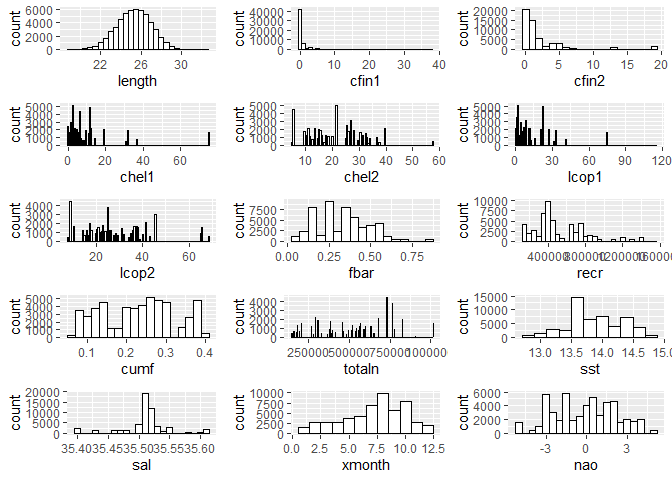
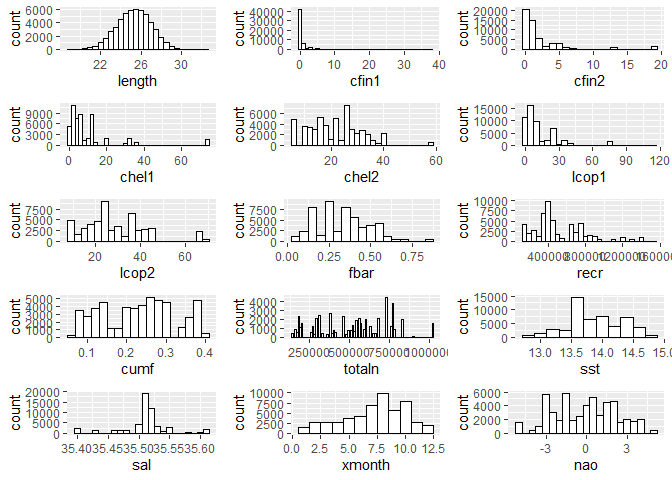
almost final

diff --git a/README.md b/README.md
@@ -32,7 +32,8 @@ Wykorzystane biblioteki
 =======================
 
 Do analizy danych i stworzenia raportu z tej analizy zostały
-wykorzystane następujące biblioteki: - datasets  
+wykorzystane następujące biblioteki:  
+- datasets  
 - corrplot  
 - ggplot2  
 - gganimate  
@@ -45,7 +46,7 @@ wykorzystane następujące biblioteki: - datasets
 Zapewnienie powtarzalności wyników przy każdym uruchomieniu raportu na tych samych danych
 =========================================================================================
 
-Aby zapewnić powtarzalność próbkowań i losowań liczb (m. inn. przy
+Aby zapewnić powtarzalność próbkowań i losowań liczb (m. in. przy
 próbkowaniu zbioru) przy każdym odpaleniu programu ustawiono stałe
 ziarno.
 
@@ -124,7 +125,7 @@ Z uwagi na występowanie brakujących danych konieczna była zmiana “?” na
 
     data[data=="?"] <- NA
 
-Po zmianie znaku “?” na wartość NA zmianiono typ danych kolumn z
+Po zmianie znaku “?” na wartość NA zmieniono typ danych kolumn z
 nieznanymi wartościami na wartości numeryczne.
 
     data$cfin1 <- as.numeric(data$cfin1)
@@ -164,9 +165,9 @@ nieznanymi wartościami na wartości numeryczne.
 Rozmiar zbioru danych i podstawowe statystyki
 =============================================
 
-    paste("Wczytane dane zawierają ", nrow(data), " rekordów oraz ", ncol(data), " kolumn.", sep=" ")
+    paste("Wczytane dane zawierają", nrow(data), "rekordów oraz", ncol(data), "kolumn.", sep=" ")
 
-    ## [1] "Wczytane dane zawierają  52582  rekordów oraz  16  kolumn."
+    ## [1] "Wczytane dane zawierają 52582 rekordów oraz 16 kolumn."
 
 Podsumowanie wartości danych:
 
@@ -253,7 +254,7 @@ wszystkimi brakującymi danymi.
 Szczegółowa analiza zbiorów wartości
 ====================================
 
-Poniżej przedstawiono rozkłady wszystkich wartośi w zbiorze danych
+Poniżej przedstawiono rozkłady wszystkich wartości w zbiorze danych
 
     library(ggplot2)
     library(ggExtra)
@@ -261,14 +262,14 @@ Poniżej przedstawiono rozkłady wszystkich wartośi w zbiorze danych
     lengthDissPlot <- ggplot(data, aes(x=length)) + geom_histogram(binwidth=.5, colour="black", fill="white")
     cfin1DissPlot <- ggplot(data, aes(x=cfin1)) + geom_histogram(binwidth=1, colour="black", fill="white")
     cfin2DissPlot <- ggplot(data, aes(x=cfin2)) + geom_histogram(binwidth=1, colour="black", fill="white")
-    chel1DissPlot <- ggplot(data, aes(x=chel1)) + geom_histogram(binwidth=.5, colour="black", fill="white")
-    chel2DissPlot <- ggplot(data, aes(x=chel2)) + geom_histogram(binwidth=.5, colour="black", fill="white")
-    lcop1DissPlot <- ggplot(data, aes(x=lcop1)) + geom_histogram(binwidth=.5, colour="black", fill="white")
-    lcop2DissPlot <- ggplot(data, aes(x=lcop2)) + geom_histogram(binwidth=.5, colour="black", fill="white")
+    chel1DissPlot <- ggplot(data, aes(x=chel1)) + geom_histogram(binwidth=2, colour="black", fill="white")
+    chel2DissPlot <- ggplot(data, aes(x=chel2)) + geom_histogram(binwidth=2, colour="black", fill="white")
+    lcop1DissPlot <- ggplot(data, aes(x=lcop1)) + geom_histogram(binwidth=5, colour="black", fill="white")
+    lcop2DissPlot <- ggplot(data, aes(x=lcop2)) + geom_histogram(binwidth=3, colour="black", fill="white")
     fbarDissPlot <- ggplot(data, aes(x=fbar)) + geom_histogram(binwidth=.05, colour="black", fill="white")
     recrDissPlot <- ggplot(data, aes(x=recr)) + geom_histogram(binwidth=50000.0, colour="black", fill="white")
     cumfDissPlot <- ggplot(data, aes(x=cumf)) + geom_histogram(binwidth=.02, colour="black", fill="white")
-    totalnDissPlot <- ggplot(data, aes(x=totaln)) + geom_histogram(binwidth=1000.0, colour="black", fill="white")
+    totalnDissPlot <- ggplot(data, aes(x=totaln)) + geom_histogram(binwidth=10000.0, colour="black", fill="white")
     sstDissPlot <- ggplot(data, aes(x=sst)) + geom_histogram(binwidth=.2, colour="black", fill="white")
     salDissPlot <- ggplot(data, aes(x=sal)) + geom_histogram(binwidth=.01, colour="black", fill="white")
     xmonthDissPlot <- ggplot(data, aes(x=xmonth)) + geom_histogram(binwidth=1.0, colour="black", fill="white")
@@ -289,17 +290,17 @@ przyjmuje rozkład zbliżony do rozkładu normalnego. W zbiorze danych
 znajduje się najwięcej śledzi o długości równej 25-26cm. Ze
 wcześniejszej analizy podsumowującej dane wynika także, że minimalna
 długość śledzia w zbiorze to 19cm, a maksymalna to 32.5cm. Średnia
-długość 25.3cm, a mediana to 25,5.
+długość 25.3cm, a mediana to 25.5.
 
 Jeśli chodzi o atrybut jakim jest dostępność planktonu (zarówno
 zagęszczenie *Calanus finmarchicus gat. 1* jak i *Calanus finmarchicus
 gat. 2*) to można zauważyć że w zbiorze znalazło się znacznie więcej
 danych z łowisk o mniejszej dostępności planktonu omawianego gatunku. Ze
 wcześniejszej analizy wiemy, że minimalna dostępność pierwszego gatunku
-tego planktonu to 0, maksymalna: ok 37,67. Srednia to ok. 0,45 a mediana
-to ok. 0,11. Jeśli chodzi o drugi gatunek planktonu *Calanus
+tego planktonu to 0, maksymalna: ok 37.67. Średnia to ok. 0,45 a mediana
+to ok. 0.11. Jeśli chodzi o drugi gatunek planktonu *Calanus
 finmarchicus* to jego minimalne zagęszczenie wynosi 0, maksymalne - ok.
-19,4, średnia to ok. 2,03 a mediana - 0.7.
+19.4, średnia to ok. 2.03 a mediana - 0.7.
 
 Kolejnym badanym atrybutem jest dostępność planktonu gatunku *Calanus
 helgolandicus gat. 1* i *Calanus helgolandicus gat. 1*. W przypadku
@@ -308,23 +309,22 @@ pierwszego z nich w zbiorze znalazło się więcej śledzi złowionych na
 planktonu rozkład ilości złowionych tam śledzi był bardziej rozłożony w
 przedziale 0-40. O śledziach złapanych w miejscach gdzie zagęszczenie
 omawianego planktonu drugiego gatunku osiąga przedział 40-60 można
-powiedzieć że są towartości odstające. Jeśli chodzi o zagęszczenie
-pierwszego gatunku to ze wcześniejszej analizy wynika, że atrubut
-tenprzyjmuje minimalną wartość równą 0, a maksymalną równą 75. Jego
-średnia występowania to ok. 10, a mediana to 5.75. Jeśli chodzi o
-minimalną wartość dostępności planktonu drugiego gatunku *Calanus
-helgolandicus* to jego minimalna wartość to ok. 5.2, maksymalna: ok.
-57.7, średnia to ok. 21.2, a mediana wynosi około 21.7.
+powiedzieć że są to wartości odstające. Jeśli chodzi o zagęszczenie
+pierwszego gatunku to ze wcześniejszej analizy wynika, że atrubut ten
+przyjmuje minimalną wartość równą 0, a maksymalną równą 75. Jego średnia
+występowania to ok. 10, a mediana to 5.75. Jeśli chodzi o minimalną
+wartość dostępności planktonu drugiego gatunku *Calanus helgolandicus*
+to jego minimalna wartość to ok. 5.2, maksymalna: ok. 57.7, średnia to
+ok. 21.2, a mediana wynosi około 21.7.
 
 Ostatnim z planktonów, których dostępność badaliśmy są widłonogi dwóch
 gatunków (*lcop1* i *lcop2*). Jeśli chodzi o pierwzszy z nich,
 zdecydowanie więcej śledzi wyłowiono na łowisku o dostępności widłonogów
-mniejszej niż 30. Jeśli chodzi o ich drugi gatunek to zagęszczenie
-widłonogów największej ilości połowów znajduje się w przedziale 10-45.
-Ze wcześniejszych badań wiemy, że minimalna wartość *lcop1* wynosi 0.3,
-majsymalna 115.6, średnia 12.8, a mediana 7. Jeśli chodzi o drugi
-gatunek widłonogów to ich minimalna wartość wynosi 7.8, maksymalna 68,7,
-średnia ok. 28, a mediana: 24.8.
+mniejszej niż 30. Jeśli chodzi o ich drugi gatunek to największa ilości
+połowów znajduje się w przedziale 10-45. Ze wcześniejszych badań wiemy,
+że minimalna wartość *lcop1* wynosi 0.3, majsymalna 115.6, średnia 12.8,
+a mediana 7. Jeśli chodzi o drugi gatunek widłonogów to ich minimalna
+wartość wynosi 7.8, maksymalna 68,7, średnia ok. 28, a mediana: 24.8.
 
 Kolejnym atrybutem jest natężenie połowów w regionie (ułamek
 pozostawionego narybku) - *fbar*. Rozkład tego atrybutu jest zbliżony do
@@ -335,31 +335,34 @@ maksymalna ok. 0.85, a średnia i mediana to ok. 0.33.
 Następnym z analizowanych atrybutów będzie ilość rocznego narybku (czyli
 liczba śledzi) - *recr*. Z powyższego wykresu wynika, że większość
 atrybutów w zbiorze przyjmuje małe wartości, a tym wyższa liczba śledzi,
-tym mniejsza próbka danych w zniorze danych. Ze wcześniejszych badań
+tym mniejsza próbka danych w zbiorze danych. Ze wcześniejszych badań
 wynika, że minimalna wartość atrybutu *recr* wynosi ok. 140tys,
 maksymalna 1.5mln, średnia ok. 520tys, a mediana ok. 421 000.
 
 Rozkład atrybutu *cumf*, czyli łączne roczne natężenie połowów w
 regionie (ułamek pozostawionego narybku) jest niemalże równomierny.
-Tylko dla niektorych wartości próbka danych w zniorze jest niższa.
+Tylko dla niektorych wartości próbka danych w zbiorze jest niższa.
 Minimalna wartość, jaką przyjmuje ten atrybut to ok. 0.07, maksymalna:
 ok. 0.4 a średnia i mediana - ok. 0.23.
 
-Z wykresu zawierającego rozkład wartości atrybutu *totaln*,czyli łączną
-liczbę ryb złowionych w ramach połowu (liczbę śledzi) wynika, że liczba
-łowionych ryb była nierównomierna. Można zauważyć tylko, że bardzo dużą
-liczbę przykłądów w zbiorze danych pokrywają połowy, w trakcie których
-złowiono ok 750tys. śledzi. Ze wcześniejszych badań wynika, że minimalna
-liczba śledzi złowionych w trakcie połowu to ok. 144 tysiące, maksymalna
-- ok 1 milion, średnia - ok. 514tys., a mediana to ok 540tys.
+Z wykresu zawierającego rozkład wartości atrybutu *totaln*, czyli
+łącznej liczby ryb złowionych w ramach połowu (liczbę śledzi) wynika, że
+liczba łowionych ryb była nierównomierna. Można zauważyć tylko, że
+bardzo dużą liczbę przykładów w zbiorze danych pokrywają połowy, w
+trakcie których złowiono ok 750tys. śledzi. Ze wcześniejszych badań
+wynika, że minimalna liczba śledzi złowionych w trakcie połowu to ok.
+144 tysiące, maksymalna - ok 1 milion, średnia - ok. 514tys., a mediana
+to ok 540tys.
 
--   sst: temperatura przy powierzchni wody \[°C\];
-
-***\[TODO\] z nowymi wykresami ***
+Kolejnym analizowanym atrybutem jest *sst* - temperatura przy
+powierzchni wody \[°C\]. Z wykresu można zauważyć, że najwięcej
+przykładów ze zbioru danych przyjmuje wartość tego atrybutu z przedziału
+13.5 - 14.5. Minimalna wartość *sst* wynosi 12.77, maksymalna: 14.73,
+średnia 13.87, a mediana 13.86.
 
 Jeśli chodzi o atrybut *sal*: poziom zasolenia wody \[Knudsen ppt\] to
 zdecydowana większość przypadków w zbiorze danych przyjmowała jego
-wartość w przedziale 35.50-35.55 . Minimalna wartość tego atrybutu w
+wartość w przedziale 35.50 - 35.55 . Minimalna wartość tego atrybutu w
 całym zbiorze wyniosła 35.40, maksymalna: 35.61 a mediana i średnia:
 35.51.
 
@@ -371,7 +374,7 @@ obliczanie dla niego wartości minimalnej i maksymalnej a także podawanie
 średniej i mediany nie ma sensu.
 
 Ostatnim z badanych parametrów łowisk jest *nao*: oscylacja
-północnoatlantycka \[mb\]. Rozkład tego atrybuu jest nierównomierny.
+północnoatlantycka \[mb\]. Rozkład tego atrybutu jest nierównomierny.
 Jego minimalna wartość to -4.89, maksymalna to 5.08, średnia wynosi
 -0.09, a mediana 0.2.
 
@@ -411,7 +414,7 @@ połowów w regionie) a *totaln* (łączna liczba ryb złowionych w ramach
 połowu) - wynosi on -0.71, gdzie taka zależność też jest naturalna.
 
 Jeśli chodzi o atrybut, którego będą dotyczyć badania w dalszej części
-pracy, czyli ługość śledzia, to jest najbardziej skorelowana z
+pracy, czyli długość śledzia, to jest najbardziej skorelowana z
 temperaturą przy powierzchni wody, a współczynnik tej korelacji wynosi
 -0.45 (czyli są to wartości odwrotnie zależne)
 
@@ -619,8 +622,6 @@ drzew w lesie równą 10.
     ## AccuracyPValue  McnemarPValue 
     ##      0.9999999            NaN
 
-***\[TODO\]*** opisac cos o tym
-
 Regresja liniowa
 ----------------
 
@@ -733,8 +734,6 @@ Kolejnym przebadanym regresorem będzie regresja liniowa
     ##      0.2917681      0.1026681      0.2840056      0.2996229      0.3240262 
     ## AccuracyPValue  McnemarPValue 
     ##      1.0000000            NaN
-
-***\[TODO\]*** opisac cos o tym
 
 kNN
 ---
@@ -856,7 +855,8 @@ Ostatnim z przebadanych algorytmów został kNN
     ## AccuracyPValue  McnemarPValue 
     ##      0.9999244            NaN
 
-***\[TODO\]*** opisac cos o tym
+Z wykresu wynika, że algotyrm osiąga najlepsze wyniki (czyli najmniejszą
+miarę RMSE) dla k=5.
 
 Porównanie modeli
 -----------------
@@ -875,30 +875,18 @@ R<sup>2</sup> jest bliższa jedności):
 
     dotplot(x, metric = "Rsquared")
 
-![](README_files/figure-markdown_strict/unnamed-chunk-27-2.png)
+![](README_files/figure-markdown_strict/unnamed-chunk-27-2.png) Z
+powyższych wykresów wynika że w przypadku porównywania algorytmu obiema
+miarami najlepiej poradził sobie algorytm kNN.
 
 Analiza ważnośći atrybutów najlepszego znalezionego modelu regresji
 ===================================================================
-
-***\[TODO\]*** Analiza ważności atrybutów najlepszego znalezionego
-modelu regresji. Analiza ważności atrybutów powinna stanowić próbę
-odpowiedzi na pytanie: co sprawia, że rozmiar śledzi zaczął w pewnym
-momencie maleć.  
-***\[TODO\]*** sprawdzic czy po wywaleniu x nadal knn
 
 Najlepszym znalezionym modelem regresji okazał się być algorytm kNN, dla
 którego przeanalizowaliśmy ważność atrybutów:
 
     ggplot(varImp(fitKNN))
 
-![](README_files/figure-markdown_strict/unnamed-chunk-28-1.png)
-
-    ggplot(varImp(fitRandomForestF))
-
-![](README_files/figure-markdown_strict/unnamed-chunk-28-2.png)
-
-    ggplot(varImp(fitLR))
-
-![](README_files/figure-markdown_strict/unnamed-chunk-28-3.png)
-***\[TODO\]*** opisac najlepszy i sprawdzic czy to knn tak jak w piosie
-nad kodem
+![](README_files/figure-markdown_strict/unnamed-chunk-28-1.png) Z
+powyższego wykresu wynika, że największy wpływ na długość śledzia miał
+atrybut *sst* czyli temperatura przy powierzchni wody.
